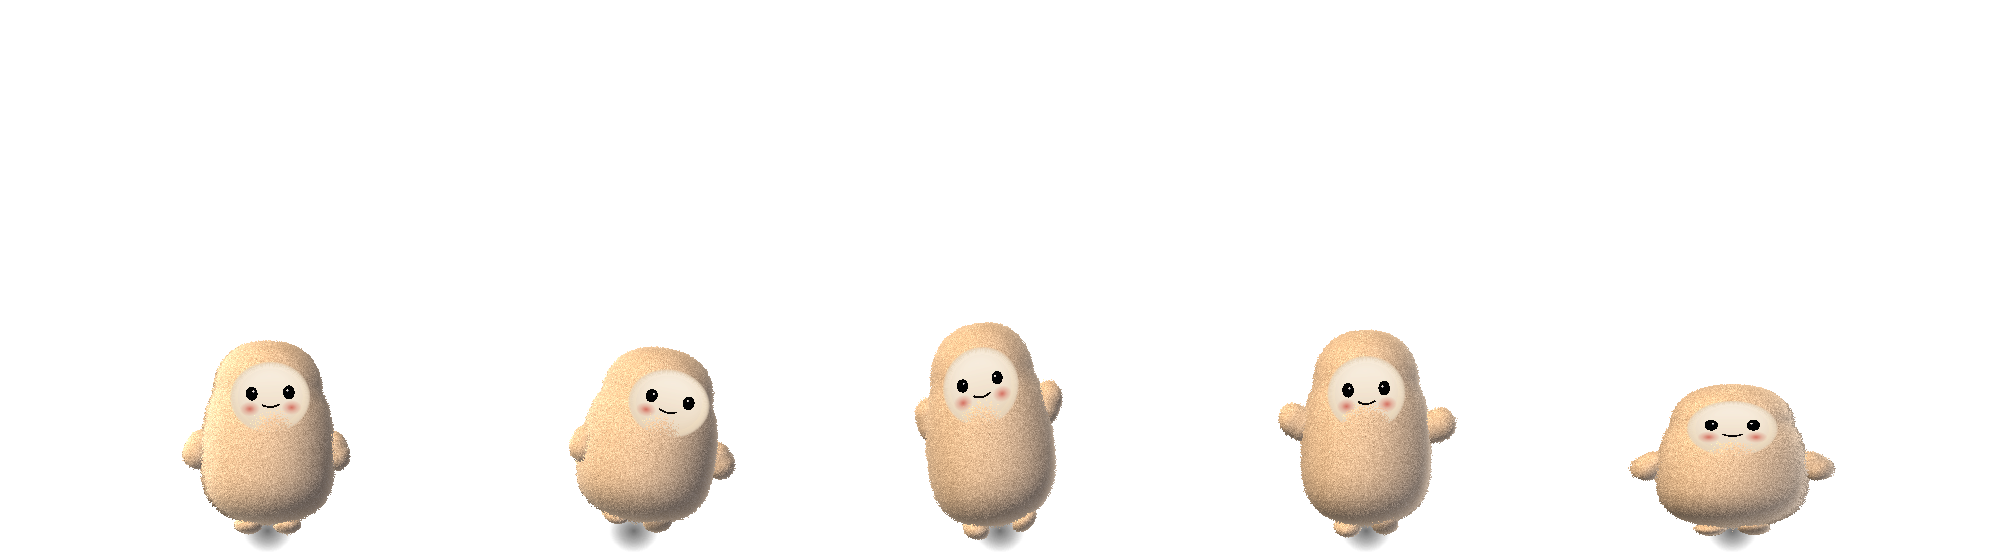
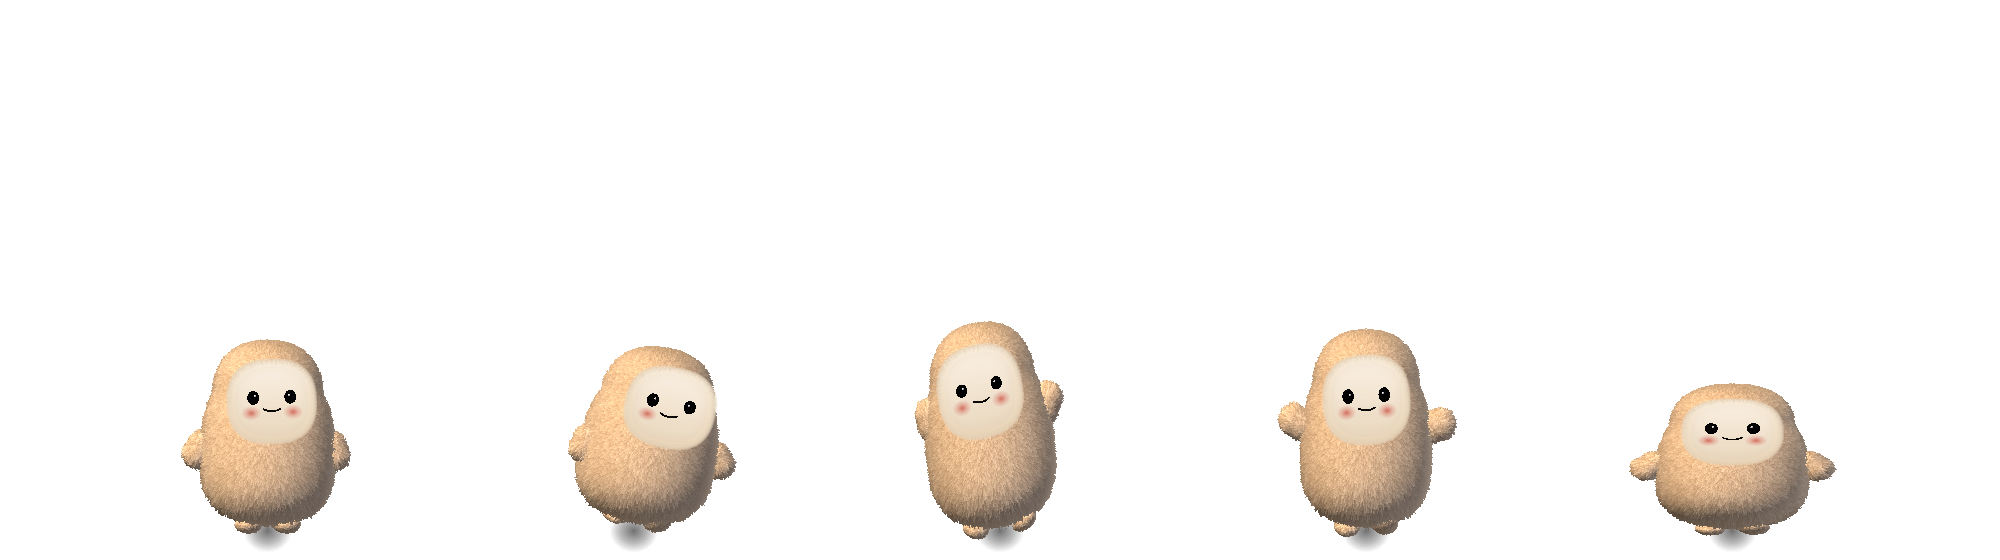
Fix sparkle (mipmaps, ~0.3pt strands, dimmer rim); bigger rounded-square face with clean chin

diff --git a/Sources/Pip/PipRig.swift b/Sources/Pip/PipRig.swift
@@ -42,12 +42,14 @@ final class PipRig: PetRig {
     private let baseScale: CGFloat = 1.0
 
     /// 脸的椭圆（宽 38、高 33），不是正圆
-    private let faceWidth: CGFloat = 38
-    private let faceHeight: CGFloat = 33
+    /// 脸：偏大的圆角方形（超椭圆），占头部大半——参考原版，下巴干净、不被毛盖住
+    private let faceWidth: CGFloat = 43
+    private let faceHeight: CGFloat = 40
     /// 脸那张软片的深度：比肚子最鼓的地方再靠前一点，否则下半张脸会被绒毛吃掉
-    private let facePanelZ: CGFloat = 12.2
+    /// 长毛（6.2 点）会从身体表面往前伸，脸片要比毛尖更靠前，否则下巴被毛吃掉
+    private let facePanelZ: CGFloat = 19.5
     /// 五官（眼、腮红、嘴）比脸的软片再靠前一点
-    private let featureZ: CGFloat = 13.2
+    private let featureZ: CGFloat = 20.5
 
     private let squashNode = SCNNode()
     private let bodyGroup = SCNNode()
@@ -93,8 +95,9 @@ final class PipRig: PetRig {
 
         // 身体：一条轮廓线转一圈出来的钟形绒毛（兜帽和身体连成一片，没有接缝）
         let body = Lathe.node(profile: Self.bodyProfile, segments: 96, material: furMaterial)
-        // 周长约 188 点、高约 82 点 → 每块贴图约 6 点见方，一根毛约 0.05 点粗
-        Fur.apply(to: body, colors: furColors, length: 6.2, tile: CGSize(width: 18, height: 8), layers: 20)
+        // 毛的粗细要接近 1 个屏幕点：周长约 188 点 / (2.8 × 128) ≈ 0.5 点一根（0.9 太粗像刺猬，0.08 太细会闪）。
+        // 再细就会小于一个像素，每帧采到不同的毛 → 闪烁噪点（实测过）
+        Fur.apply(to: body, colors: furColors, length: 5.4, tile: CGSize(width: 4.6, height: 2.0), layers: 20)
         bodyGroup.addChildNode(body)
 
         buildLeg(pivot: legPivotL, x: -9)
@@ -118,7 +121,7 @@ final class PipRig: PetRig {
         let foot = sphereNode(radius: 5.6, material: furMaterial)
         foot.scale = SCNVector3(1.05, 0.68, 1.25)
         foot.position = SCNVector3(0, -8.4, 1.6)
-        Fur.apply(to: foot, colors: furColors, length: 1.8, tile: CGSize(width: 7, height: 4))
+        Fur.apply(to: foot, colors: furColors, length: 1.6, tile: CGSize(width: 0.6, height: 0.3))
         pivot.addChildNode(foot)
     }
 
@@ -130,13 +133,13 @@ final class PipRig: PetRig {
         let arm = capsuleNode(radius: 6.2, height: 17, material: furMaterial)
         arm.position = SCNVector3(sign * 4.0, -6.0, 0)
         arm.eulerAngles = SCNVector3(0, 0, sign * 0.45)
-        Fur.apply(to: arm, colors: furColors, length: 3.4, tile: CGSize(width: 7, height: 4), layers: 16)
+        Fur.apply(to: arm, colors: furColors, length: 3.0, tile: CGSize(width: 0.8, height: 0.5), layers: 16)
         pivot.addChildNode(arm)
     }
 
     private func buildHead() {
         // 脸这一坨绕自己的中心转，不会在绒毛上滑来滑去
-        headPivot.position = SCNVector3(0, 62, 18)
+        headPivot.position = SCNVector3(0, 60, 18)
         bodyGroup.addChildNode(headPivot)
         headPivot.addChildNode(headGroup)
 
@@ -259,7 +262,9 @@ final class PipRig: PetRig {
             for x in 0..<size {
                 let nx = (Double(x) + 0.5) / Double(size) * 2 - 1
                 let ny = (Double(y) + 0.5) / Double(size) * 2 - 1
-                let rho = sqrt(nx * nx + ny * ny)
+                // 超椭圆（指数 2.5）：圆角方形的脸，比正椭圆饱满
+                let pw = 2.5
+                let rho = pow(pow(abs(nx), pw) + pow(abs(ny), pw), 1 / pw)
 
                 var alpha = 1.0
                 var furCover = 0.0
@@ -268,7 +273,9 @@ final class PipRig: PetRig {
                     let angle = atan2(ny, nx) + .pi
                     let k = Int(angle / (2 * .pi) * Double(strands.count)) % strands.count
                     let reach = 0.25 + 0.75 * strands[k]          // 这根毛盖进来多深
-                    if t > 1 - reach { furCover = min(1, (t - (1 - reach)) / max(reach, 0.01) * 1.6) }
+                    // 毛只从头顶和两侧盖进来；下半圈（ny > 0.25，图片里 y 向下）是干净的下巴
+                    let hoodMask = max(0, min(1, (0.25 - ny) / 0.35))
+                    if t > 1 - reach { furCover = min(1, (t - (1 - reach)) / max(reach, 0.01) * 1.6) * hoodMask }
                     alpha = 1 - pow(t, 6)                          // 只在最外缘才真正透明
                 }
 

diff --git a/Sources/Pip/Fur.swift b/Sources/Pip/Fur.swift
@@ -61,13 +61,13 @@ enum Fur {
     #pragma body
     float strand = _surface.emission.r;
     if (furH > 0.0 && strand < furH) { discard_fragment(); }
-    float3 c = mix(furRoot, furTip, furH * 0.85 + strand * 0.15);
-    c *= mix(0.72, 1.0, sqrt(furH));
+    float3 c = mix(furRoot, furTip, furH * 0.9 + strand * 0.04);
+    c *= mix(0.82, 1.0, sqrt(furH));
     _surface.diffuse = float4(c, 1.0);
     float3 n = normalize(_surface.normal);
     float3 v = normalize(_surface.view);
     float rim = pow(1.0 - saturate(dot(n, v)), 2.2);
-    _surface.emission = float4(furRim * rim * (0.18 + 0.32 * furH), 1.0);
+    _surface.emission = float4(furRim * rim * (0.05 + 0.10 * furH), 1.0);
     """
 
     private static func material(h: CGFloat, colors: Colors, length: CGFloat, tile: CGSize) -> SCNMaterial {
@@ -78,7 +78,9 @@ enum Fur {
         m.emission.contents = strandImage
         m.emission.wrapS = .repeat
         m.emission.wrapT = .repeat
-        m.emission.mipFilter = .none
+        // 角色实际只有 ~90 点高，一根毛不到一个像素：不开 mipmap 时每帧随机采到不同的毛 → 闪烁噪点。
+        // 开了以后远看取平均，绒毛融成一片柔和的绒面，只在轮廓上留下毛边。
+        m.emission.mipFilter = .linear
         m.emission.minificationFilter = .linear
         m.emission.magnificationFilter = .linear
         m.emission.contentsTransform = SCNMatrix4MakeScale(tile.width, tile.height, 1)
